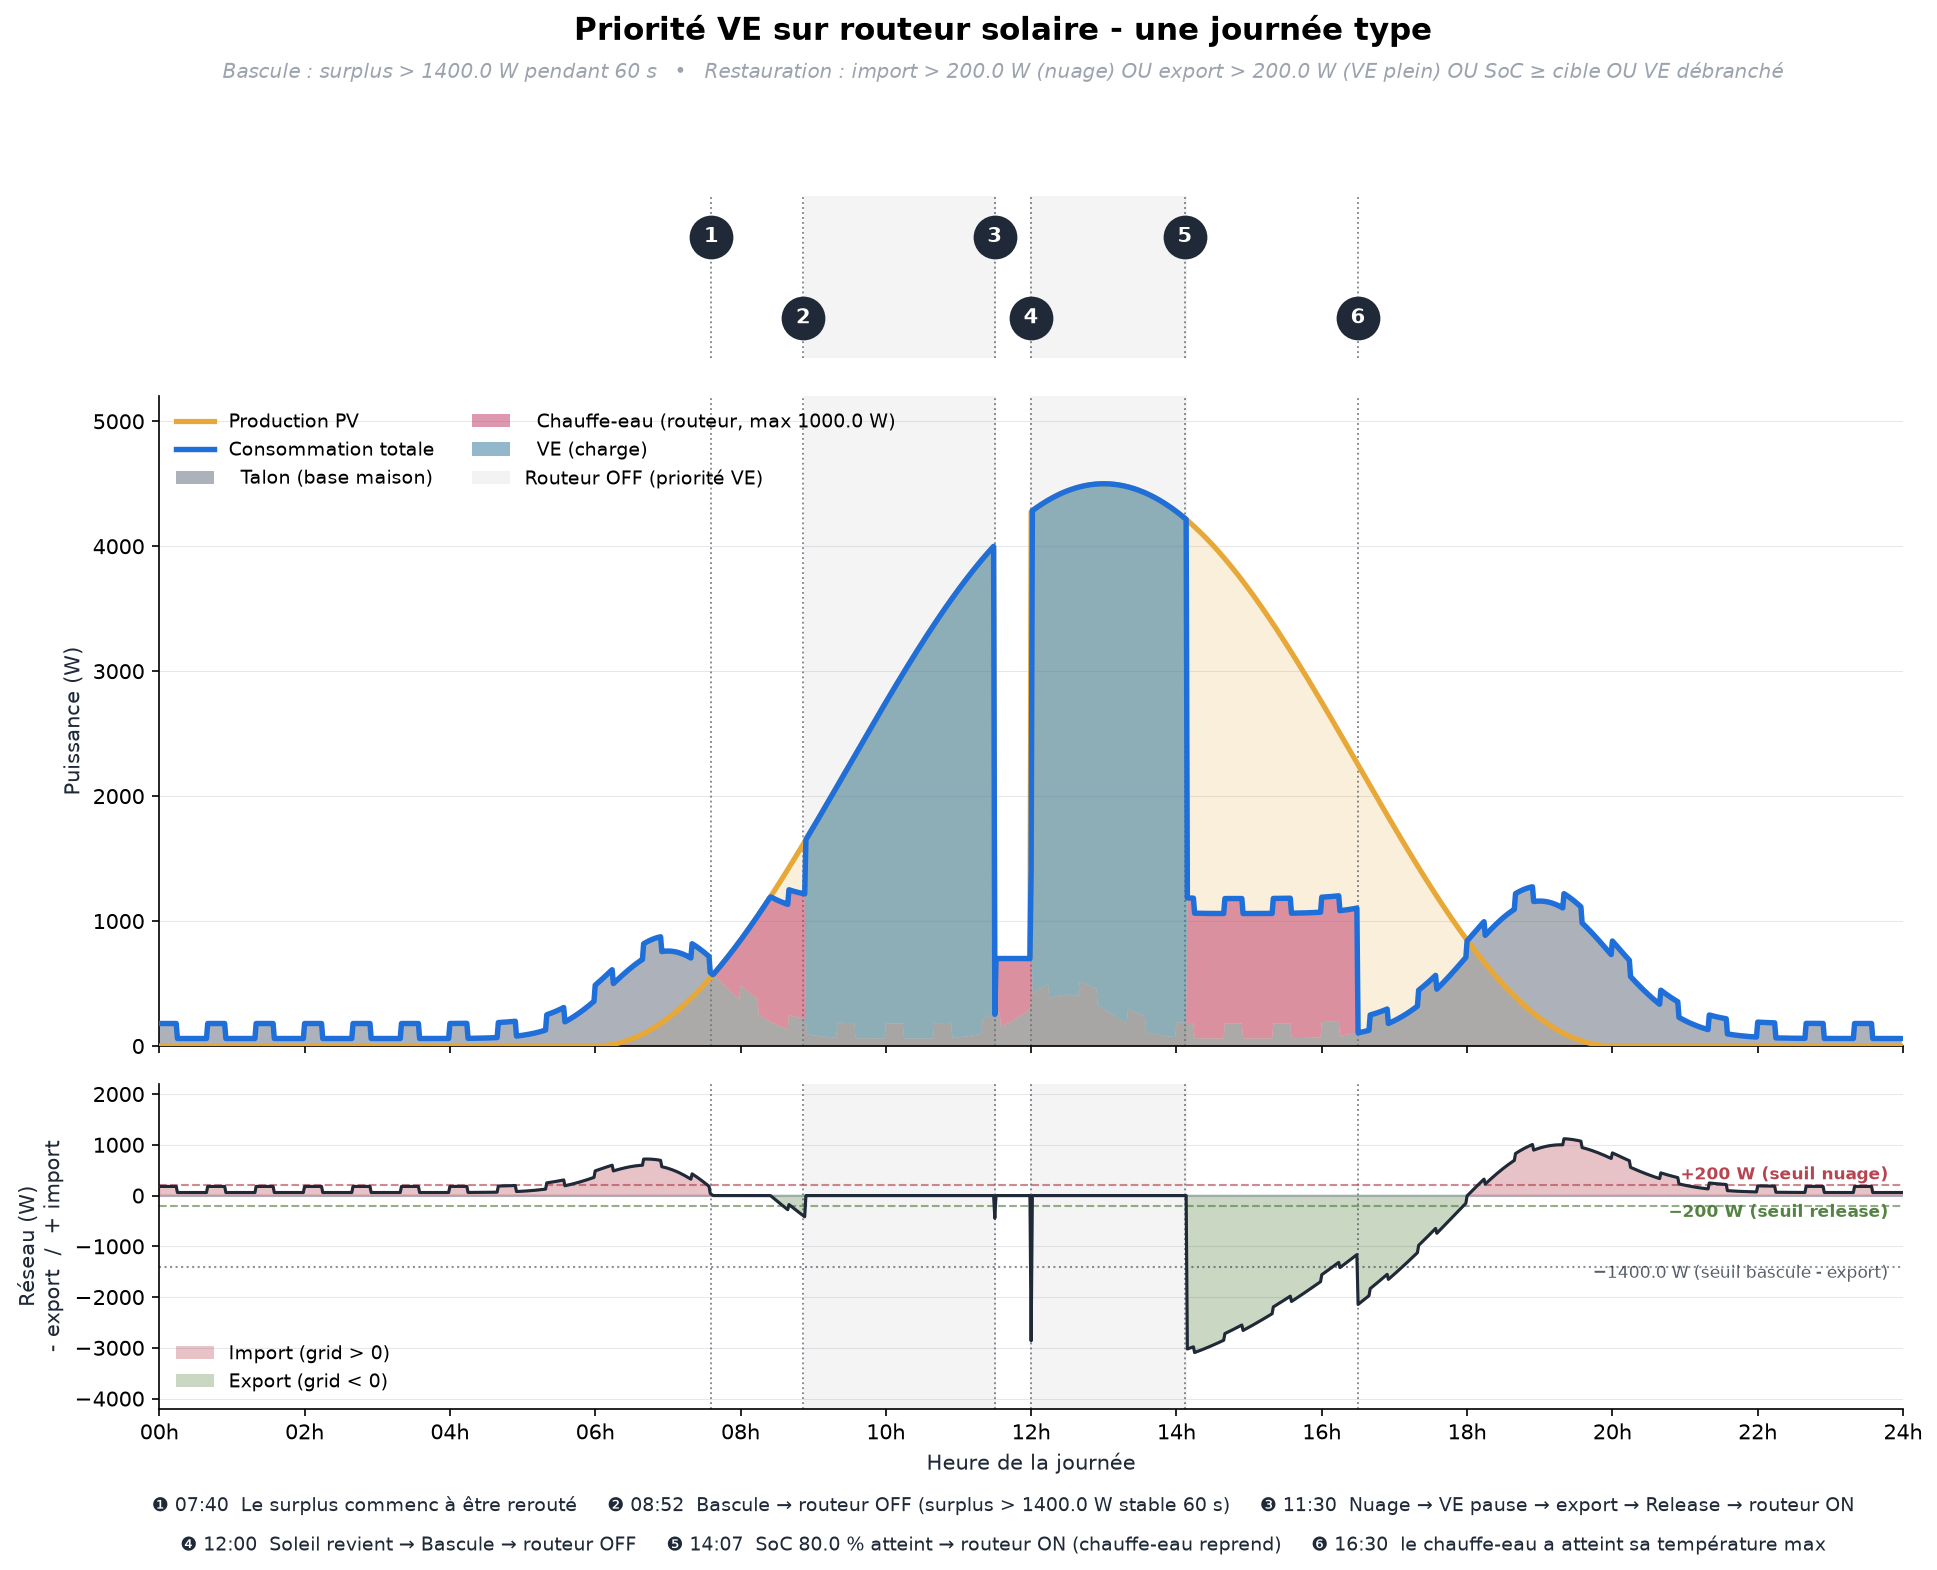
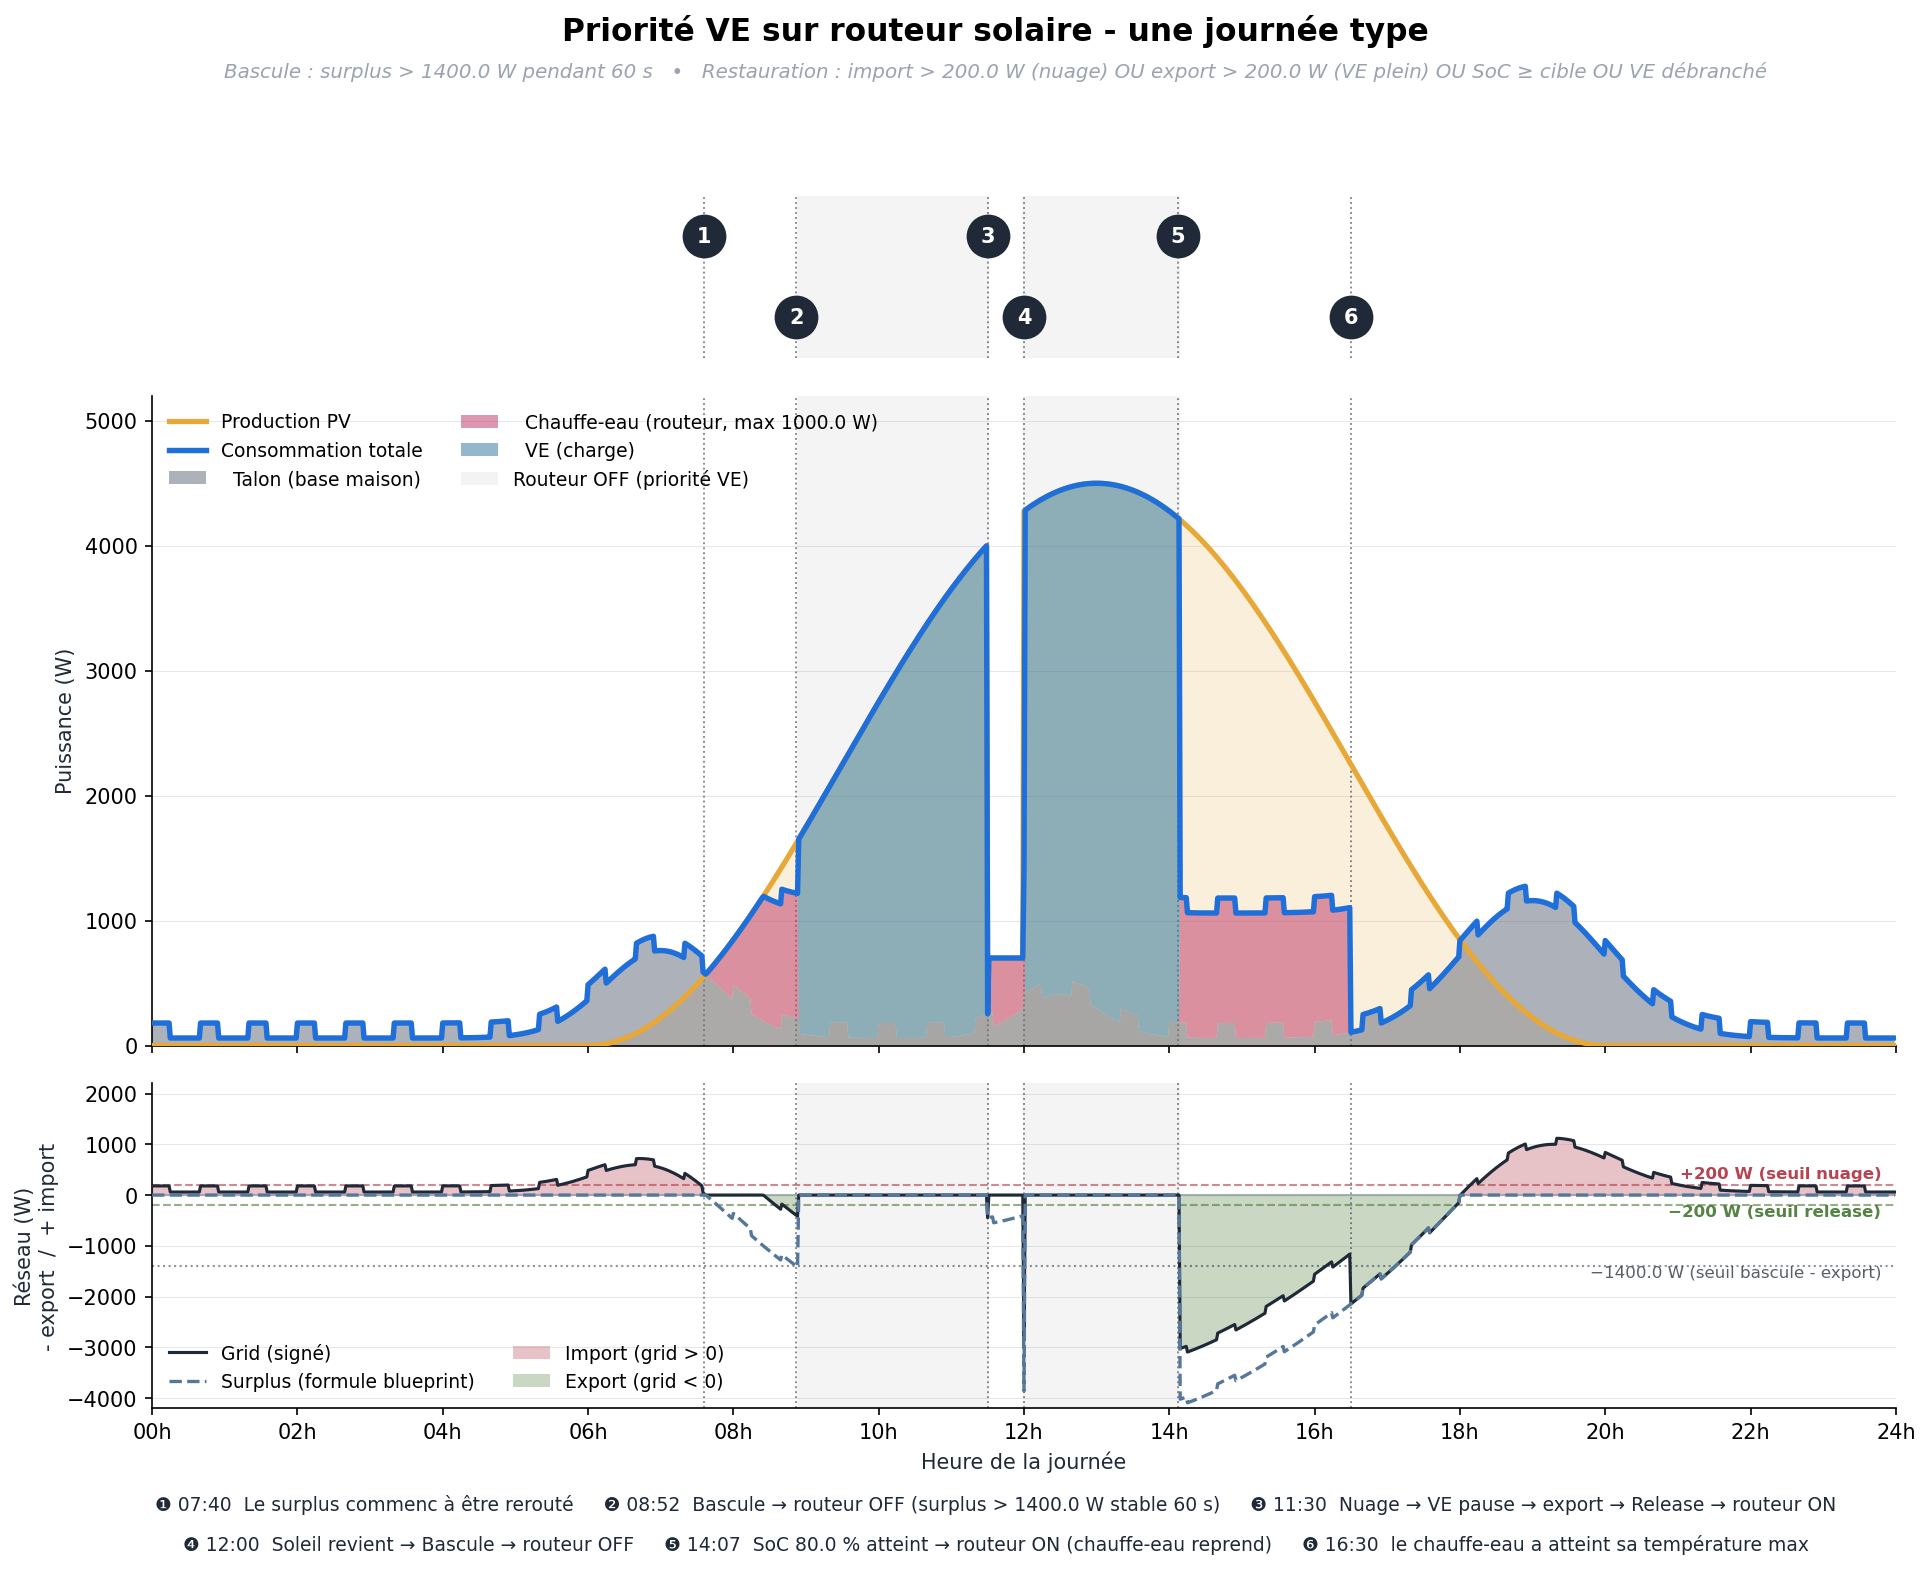
doc: create a graph showing how blueprint is working

diff --git a/tools/plot_priority_to_ev_day.py b/tools/plot_priority_to_ev_day.py
@@ -53,7 +53,7 @@ EV_MIN = 1400.0        # minimum surplus for Zappi to start / keep charging (eco
 EV_MAX = float('inf')  # EV absorbs 100 % of the surplus (no ceiling in this model)
 ROUTER_MAX = 1000.0    # water-heater capacity (limited)
 TANK_FULL_H = 16.5     # water heater thermostat cuts off at 16:30 (tank hot enough)
-HANDOFF_TH = 1400.0
+HANDOFF_TH = EV_MIN
 CLOUD_TH = 200.0
 RELEASE_TH = 200.0
 DEBOUNCE = 1           # iterations at 1-min resolution → ~1 min (~60 s)
@@ -166,6 +166,7 @@ COLOR_EV = '#3b7ea1'         # calm blue
 COLOR_DIVERT = '#c1436d'     # coral (water heater)
 COLOR_IMPORT = '#b23a48'     # red
 COLOR_EXPORT = '#4d7c3a'     # green
+COLOR_SURPLUS = '#557799'    # blue-gray
 BG_ROUTER_OFF = '#f3f3f3'    # very pale amber
 INK = '#1f2937'
 MUTED = '#9ca3af'
@@ -225,11 +226,19 @@ handles = [
 ]
 ax1.legend(handles=handles, loc='upper left', frameon=False, ncol=2, fontsize=9)
 
-# --- Bottom panel: grid exchange (signed) ---
+# --- Bottom panel: grid exchange (signed) + surplus curve ---
+# Surplus as the blueprint sees it (drives the handoff trigger).
+# Plotted on the negative (export) side of the axis, consistent with the sign
+# convention: surplus is "what could be exported" - it belongs below zero.
+surplus_bp = np.maximum(0.0, -grid) + np.maximum(0.0, divert)
+
 ax2.axhline(0, color=MUTED, lw=1.0, alpha=0.7)
 ax2.fill_between(hours, 0, grid, where=(grid >= 0), color=COLOR_IMPORT, alpha=0.30, interpolate=True)
 ax2.fill_between(hours, 0, grid, where=(grid < 0), color=COLOR_EXPORT, alpha=0.30, interpolate=True)
-ax2.plot(hours, grid, color=INK, lw=1.5, zorder=3)
+ax2.plot(hours, grid, color=INK, lw=1.5, zorder=3, label='Réseau (signé)')
+# Surplus (dashed, no fill) on the export side - the handoff trigger compares |surplus| to 1400 W.
+ax2.plot(hours, -surplus_bp, color=COLOR_SURPLUS, lw=1.6, ls='--', zorder=4,
+         label='Surplus = −(max(0,−grid) + max(0,divert))')
 
 # Restoration thresholds
 ax2.axhline(200, ls='--', color=COLOR_IMPORT, alpha=0.6, lw=1)
@@ -240,7 +249,7 @@ ax2.text(23.8, -420, '−200 W (seuil release)', fontsize=8, ha='right',
          color=COLOR_EXPORT, alpha=0.95, weight='bold')
 
 # Handoff threshold reference on bottom panel
-ax2.axhline(-1400, ls=':', color=INK, alpha=0.5, lw=1)
+ax2.axhline(-HANDOFF_TH, ls=':', color=INK, alpha=0.5, lw=1)
 ax2.text(23.8, -1620, f'−{EV_MIN} W (seuil bascule - export)', fontsize=8, ha='right', color=INK, alpha=0.75)
 
 ax2.set_ylabel('Réseau (W)\n- export  /  + import', color=INK)
@@ -251,10 +260,12 @@ ax2.set_axisbelow(True)
 
 # Import/export legend
 handles2 = [
+    plt.Line2D([], [], color=INK, lw=1.5, label='Grid (signé)'),
+    plt.Line2D([], [], color=COLOR_SURPLUS, lw=1.6, ls='--', label='Surplus'),
     Patch(facecolor=COLOR_IMPORT, alpha=0.30, label='Import (grid > 0)'),
     Patch(facecolor=COLOR_EXPORT, alpha=0.30, label='Export (grid < 0)'),
 ]
-ax2.legend(handles=handles2, loc='lower left', frameon=False, fontsize=9)
+ax2.legend(handles=handles2, loc='lower left', frameon=False, fontsize=9, ncol=2)
 
 # --- X-axis ---
 ax2.set_xticks(range(0, 25, 2))
@@ -264,7 +275,7 @@ ax2.set_xlim(0, 24)
 # --- Event markers on the top strip: numbered dots only, full labels in a bottom caption ---
 # Times sourced from the simulation state-machine transitions (printed above).
 events = [
-    (7.6,           '1', '07:40  Le surplus commenc à être rerouté'),
+    (7.6,           '1', '07:40  Le surplus commence à être rerouté'),
     (8 + 52/60,     '2', f'08:52  Bascule → routeur OFF (surplus > {EV_MIN} W stable 60 s)'),
     (11.5,          '3', '11:30  Nuage → VE pause → export → Release → routeur ON'),
     (12.0,          '4', '12:00  Soleil revient → Bascule → routeur OFF'),
